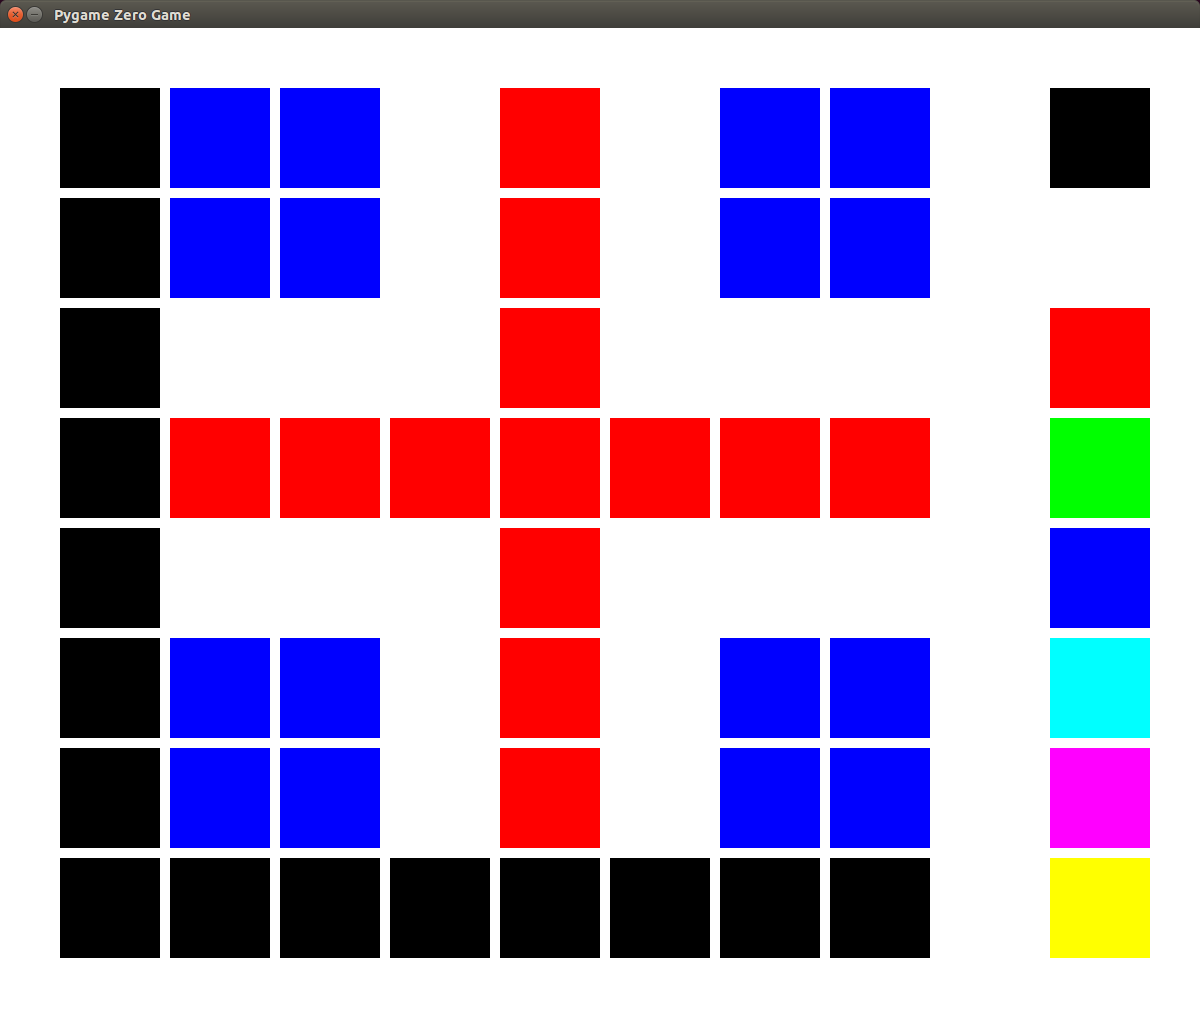
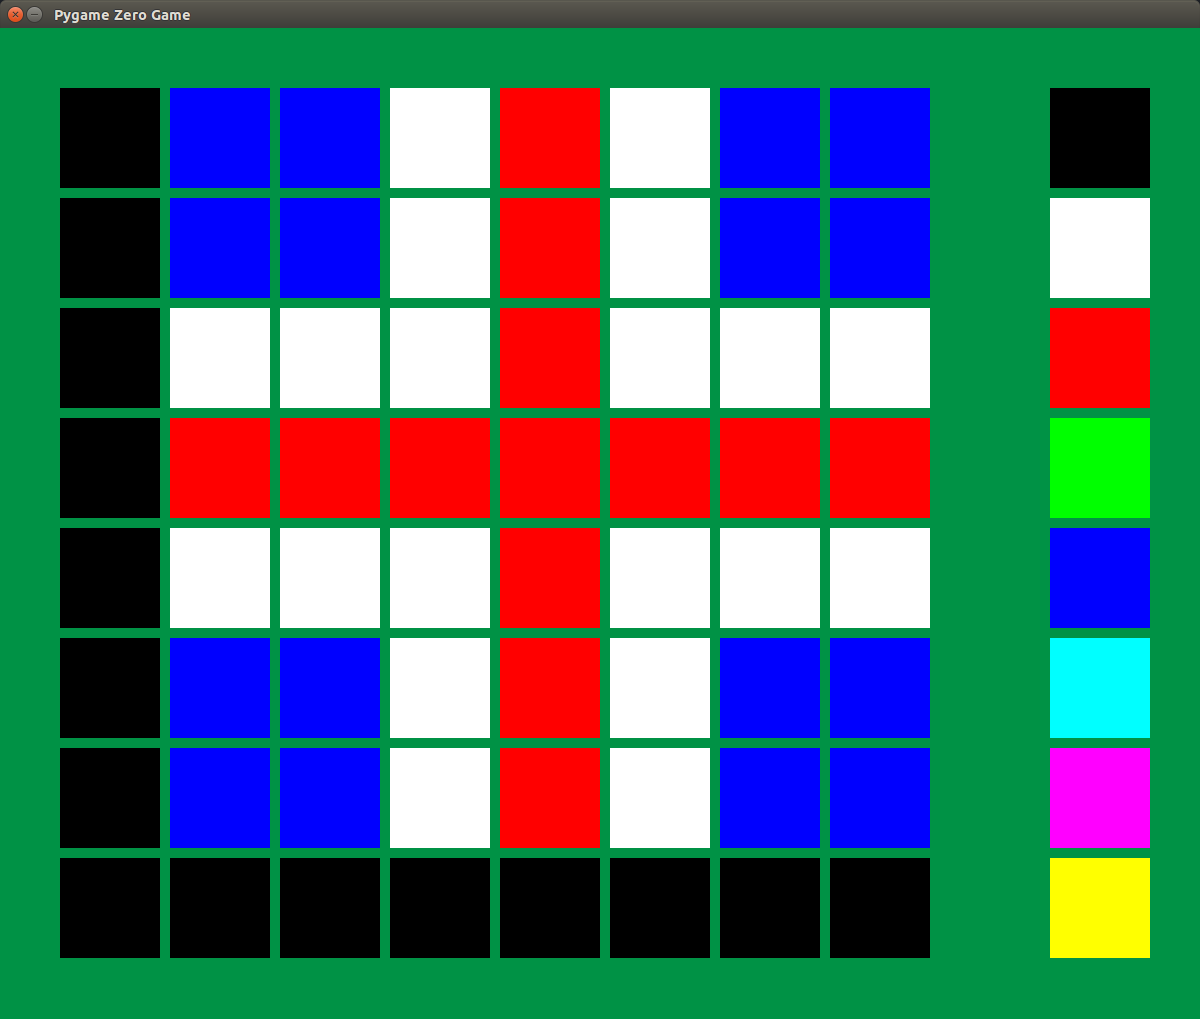
Use green background

diff --git a/app/app.py b/app/app.py
@@ -14,7 +14,7 @@ colour_palette = [create_pixel(1100, 110*(i+1), colour) for i, colour in enumera
 
 def draw():
     screen.clear()
-    screen.fill((255, 255, 255))
+    screen.fill((0, 146, 69))
     for pixel in pixels.values():
         pixel.draw()
     for colour in colour_palette:
